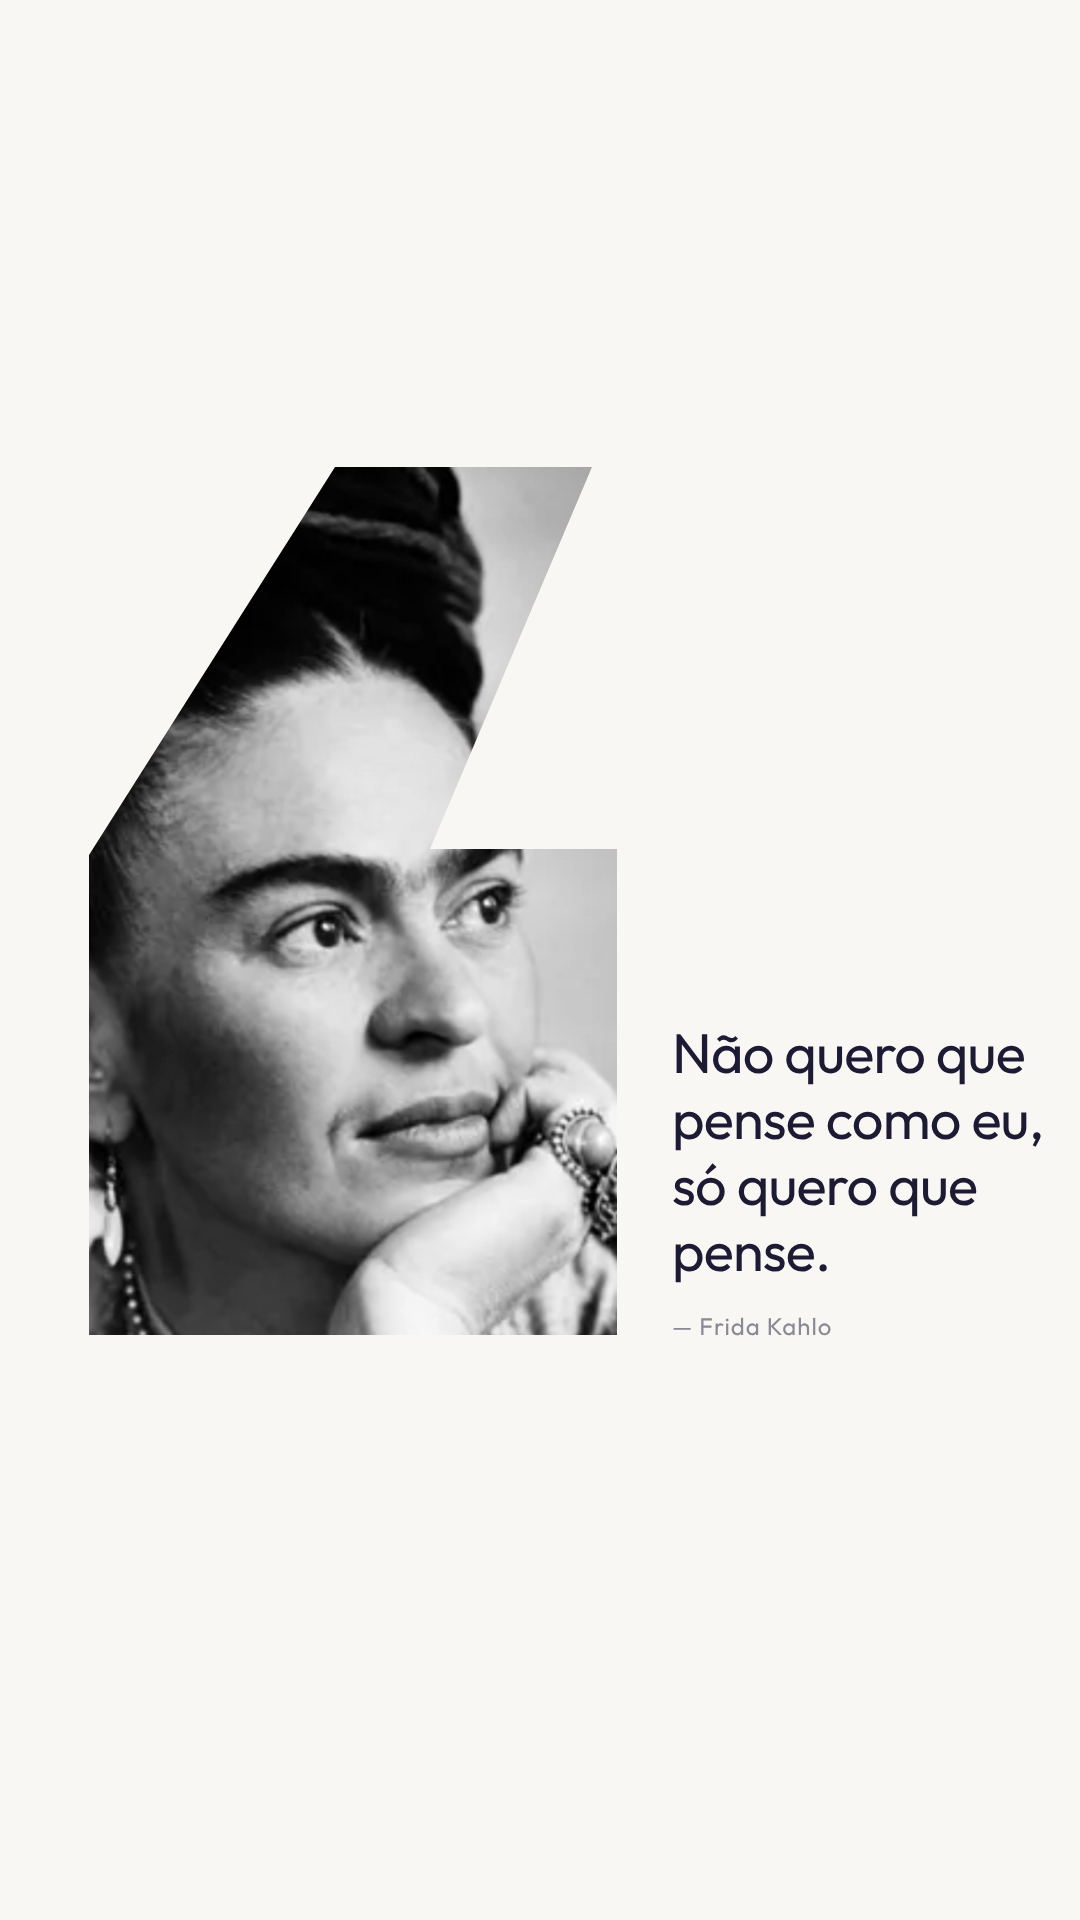
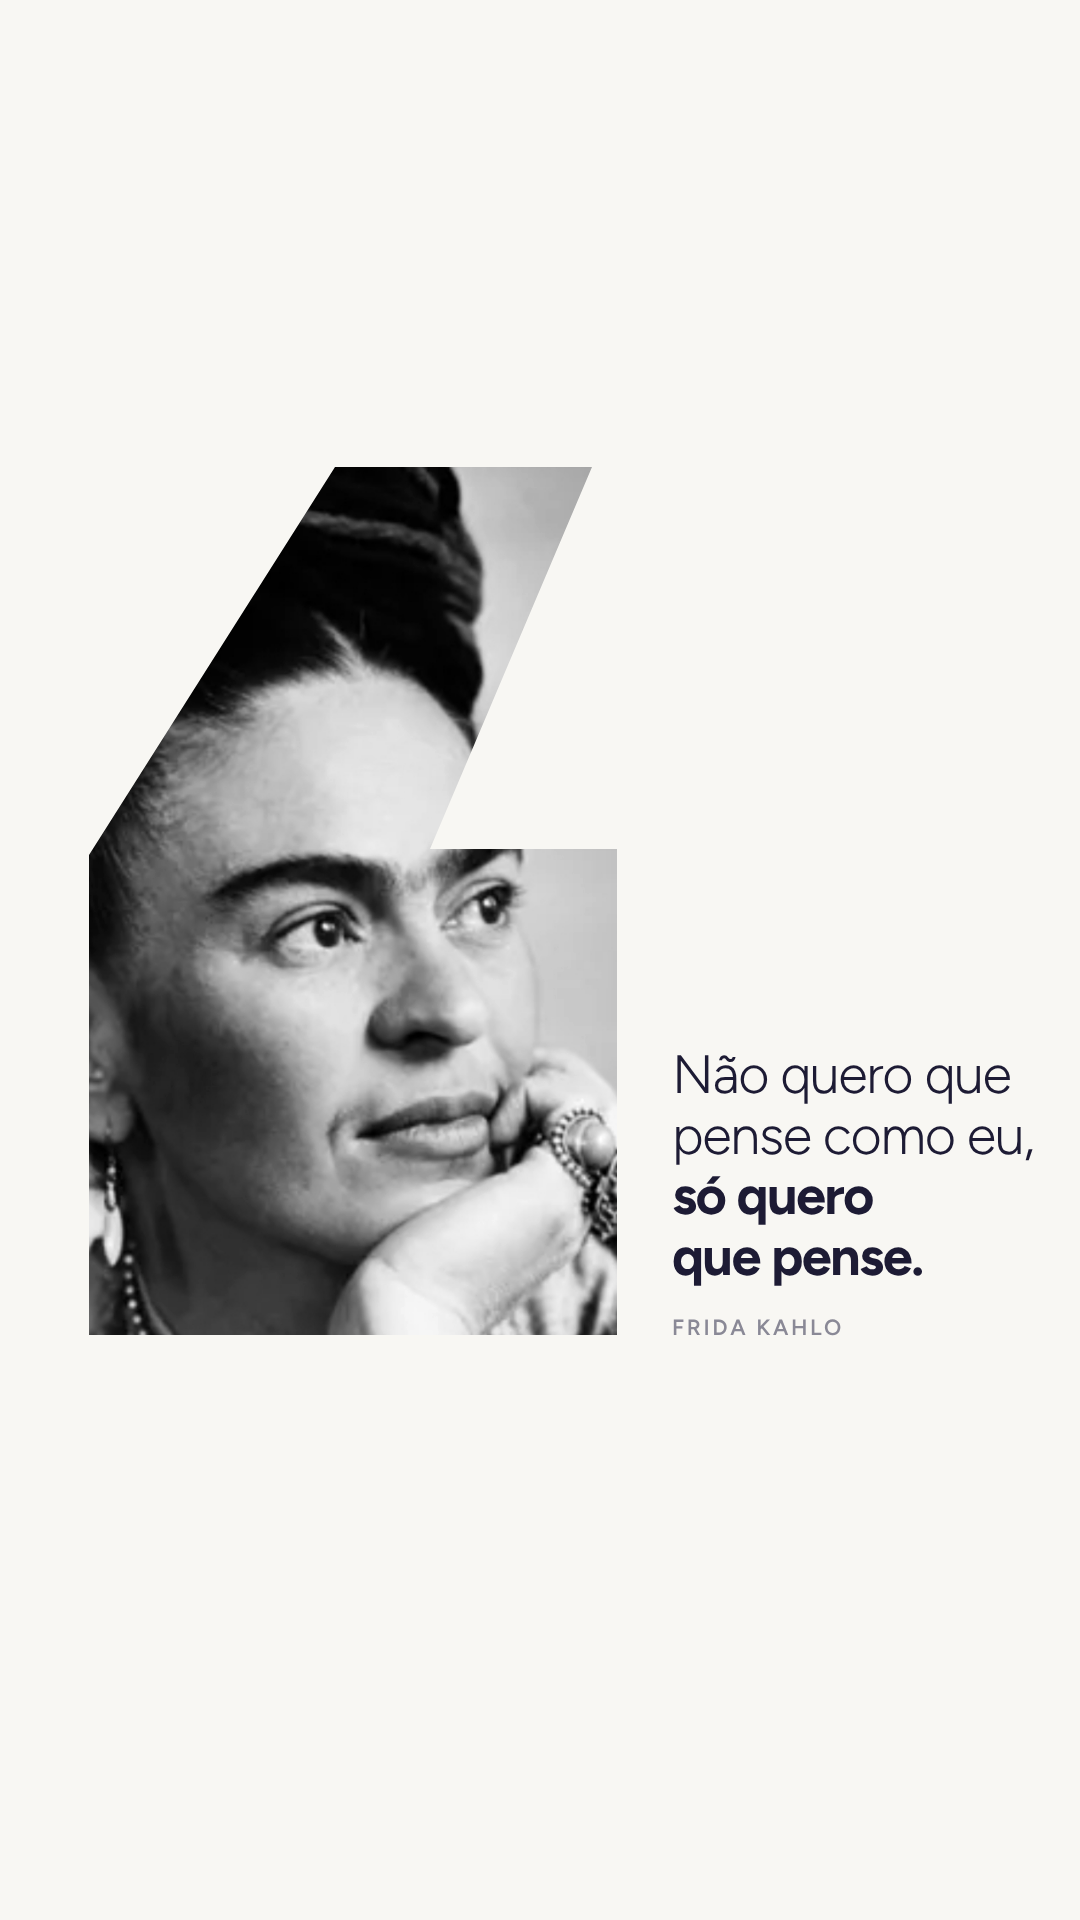
Switch Frida quote to Figtree with light/bold weight contrast
Claude-Session: https://claude.ai/code/session_01PxZLYp44R4EtTXSM1wnfqE

Changed region(s): [[0.6111, 0.5312, 0.9472, 0.7188]]

diff --git a/stories/frida-aspas.html b/stories/frida-aspas.html
@@ -3,7 +3,7 @@
 <head>
 <meta charset="utf-8">
 <title>Frida Aspas Post</title>
-<link href="https://fonts.googleapis.com/css2?family=Outfit:wght@400;500&display=swap" rel="stylesheet">
+<link href="https://fonts.googleapis.com/css2?family=Figtree:wght@300;400;600;700&display=swap" rel="stylesheet">
 <style>
   :root{--paper:#f8f7f3;--ink:#1d1b34;--muted:#8a8996;}
   *{margin:0;padding:0;box-sizing:border-box}
@@ -19,9 +19,11 @@
     background-size:763px auto;background-position:-139px 78px;
     filter:grayscale(1) contrast(1.05)}
   /* Texto ancorado na base do shape (y=1050): a assinatura assenta nessa linha. */
-  .text{position:absolute;left:672px;bottom:297px;width:380px;font-family:'Outfit',sans-serif}
-  .quote{font-weight:400;font-size:56px;line-height:1.18;color:var(--ink);letter-spacing:-.015em}
-  .author{margin-top:30px;font-weight:400;font-size:24px;line-height:1;letter-spacing:.04em;color:var(--muted)}
+  .text{position:absolute;left:672px;bottom:296px;width:400px;font-family:'Figtree',sans-serif}
+  /* Contraste de pesos como no specimen da Kind Sans (Light x Bold); Figtree é a alternativa livre mais próxima. */
+  .quote{font-weight:300;font-size:54px;line-height:1.12;color:var(--ink);letter-spacing:-.025em}
+  .quote strong{font-weight:700;letter-spacing:-.03em}
+  .author{margin-top:30px;font-weight:600;font-size:22px;line-height:1;letter-spacing:.12em;text-transform:uppercase;color:var(--muted)}
 </style>
 </head>
 <body>
@@ -30,8 +32,8 @@
   <div class="block">
     <div class="shape"></div>
     <div class="text">
-      <p class="quote">Não quero que pense como eu, só quero que pense.</p>
-      <p class="author">— Frida Kahlo</p>
+      <p class="quote">Não quero que<br>pense como eu,<br><strong>só quero<br>que pense.</strong></p>
+      <p class="author">Frida Kahlo</p>
     </div>
   </div>
 </div>
